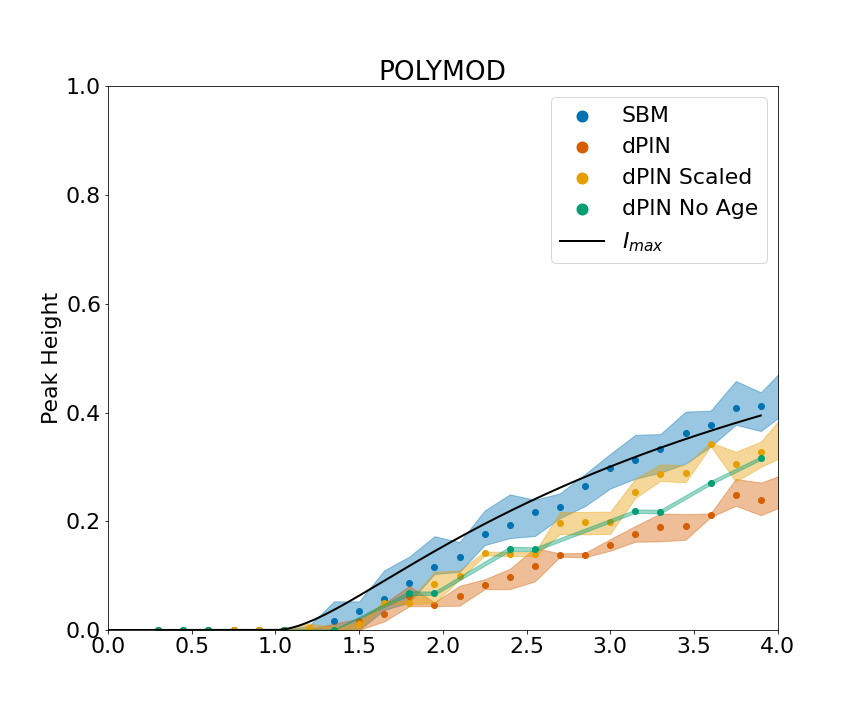
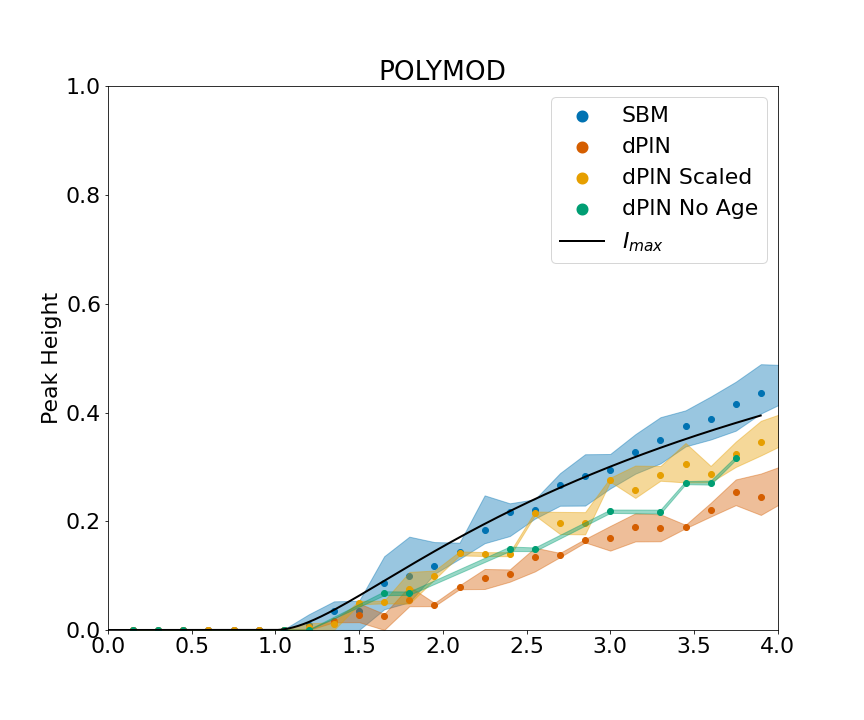
growth rates w error bars

Changed region(s): [[0.3438, 0.4889, 0.9062, 0.8861]]

diff --git a/growth_rate_fig.py b/growth_rate_fig.py
@@ -33,8 +33,9 @@ digit = [a for a in bins]; digit.append(1e6)
 t_0 = 6
 T_max = 14
 max_gr, max_gr1 = 0, 0
-xs,ys = [], []
 for i, data in enumerate(datas):
+    xs,ys = [], []
+    top, bot = [], []
     # fig0,ax0 = plt.subplots(1,1,figsize=(12,10))
     # fig1,ax1 = plt.subplots(1,1,figsize=(12,10))
     # fig2,ax2 = plt.subplots(1,1,figsize=(12,10))
@@ -138,6 +139,8 @@ for i, data in enumerate(datas):
             print('y\n\n\n')
             xs.append(x)
             ys.append([np.mean(a) for a in y])
+            bot.append([np.percentile(a,5) for a in y])
+            top.append([np.percentile(a,95) for a in y])
             print(index)
             print(ys)
             # # ax2.scatter(r0s, [np.mean([a[f'{T}']]) for a in g], color = available_colors[index], label=f'{index}')
@@ -191,5 +194,7 @@ for i, data in enumerate(datas):
     # ax4.legend()
     # # fig3.show() 
 
-np.savetxt(f'../output_data/simulations/big/sellke/growth_rate/figures/xs_{data}_{model}_t0=6.csv', xs)
-np.savetxt(f'../output_data/simulations/big/sellke/growth_rate/figures/ys_{data}_{model}_t0=6.csv',ys)
+    np.savetxt(f'../output_data/simulations/big/sellke/growth_rate/figures/xs_{data}_{model}_t6.csv', xs)
+    np.savetxt(f'../output_data/simulations/big/sellke/growth_rate/figures/ys_{data}_{model}_t6.csv',ys)
+    np.savetxt(f'../output_data/simulations/big/sellke/growth_rate/figures/bot_{data}_{model}_t6.csv',bot)
+    np.savetxt(f'../output_data/simulations/big/sellke/growth_rate/figures/top_{data}_{model}_t6.csv',top)
